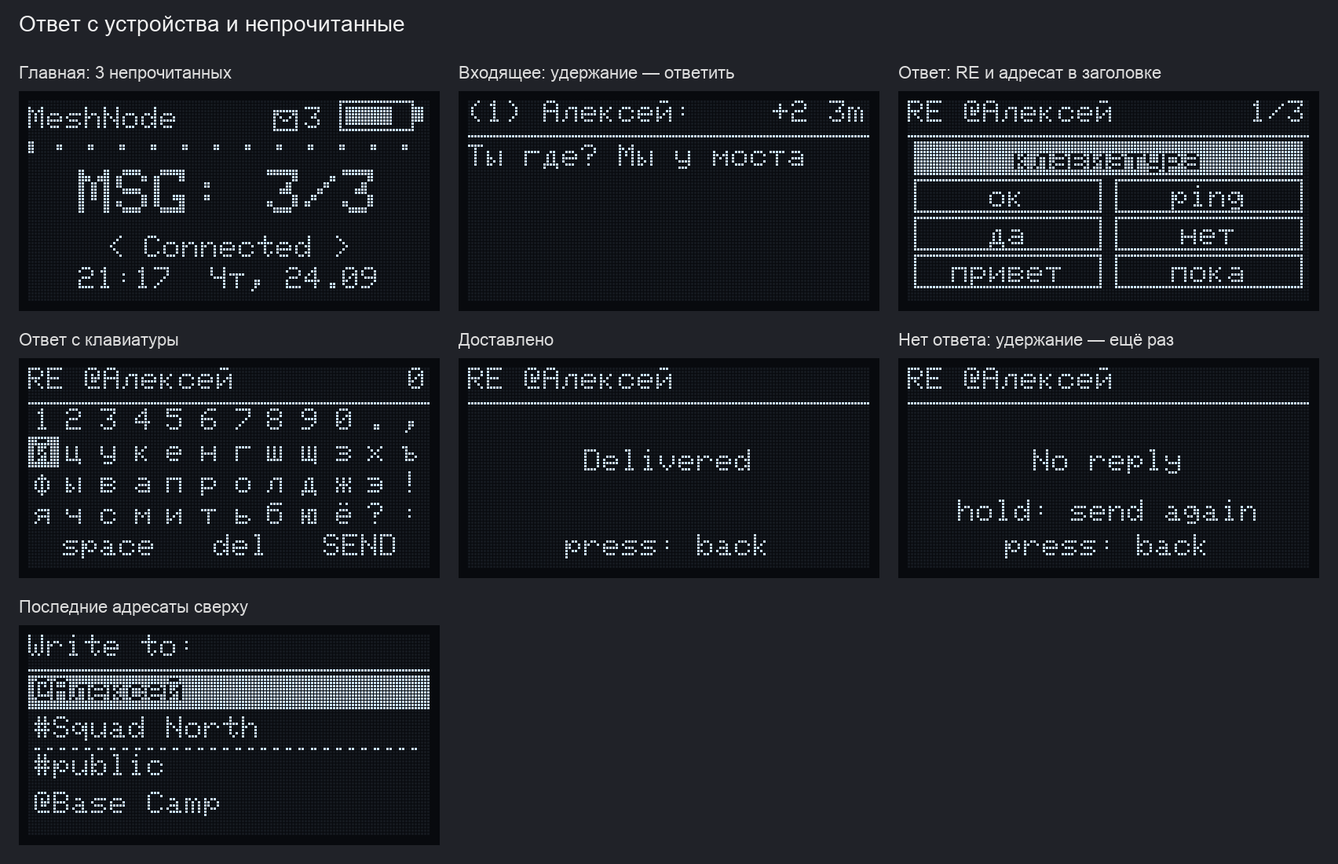
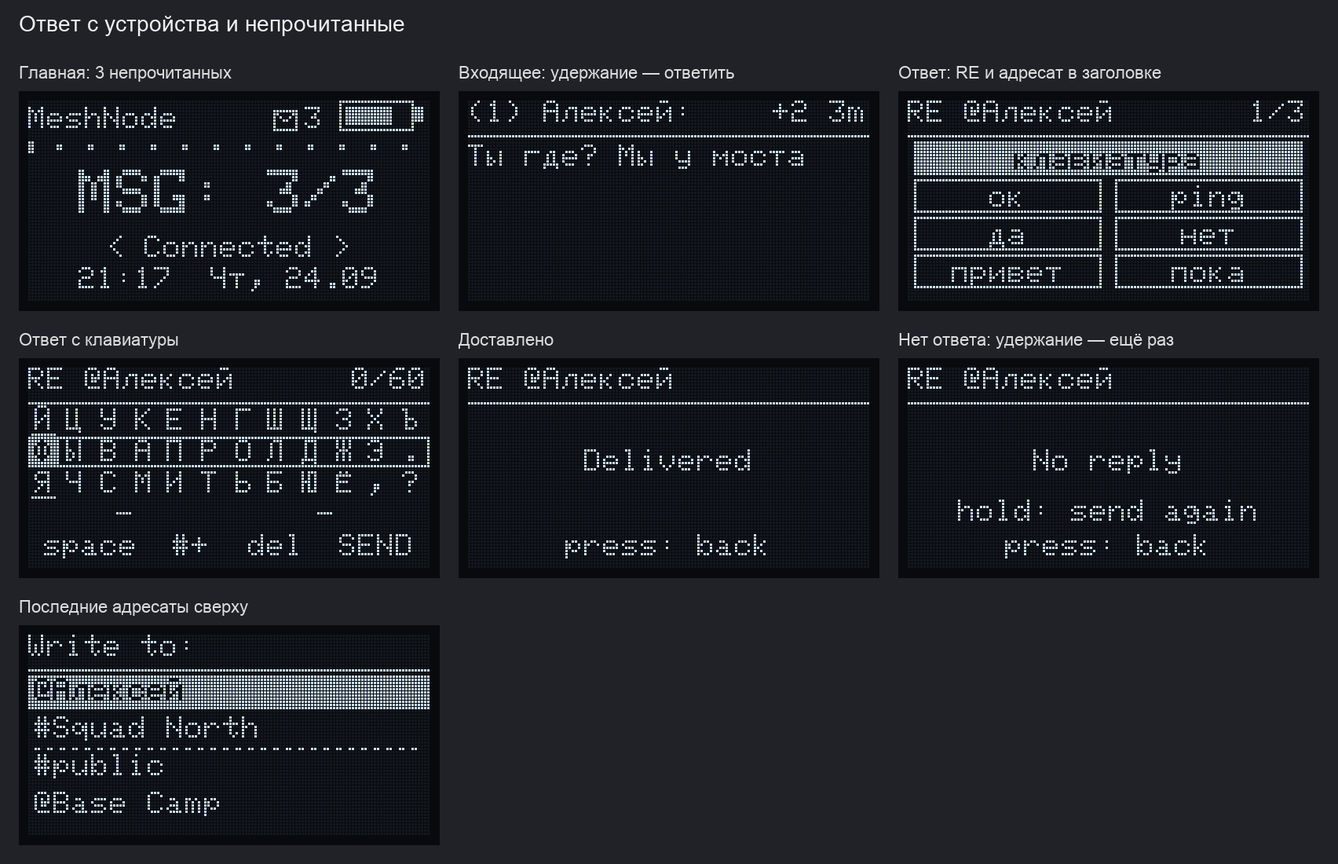
Версия 0.1.9: морзе, новая клавиатура, свои фразы, README.

diff --git a/tools/screen_render/render_compose.py b/tools/screen_render/render_compose.py
@@ -30,14 +30,18 @@ LANG = {
     "en": {"phrases": ["ok", "ping", "yes", "no", "hello", "goodbye",
                        "on my way", "arrived", "waiting", "where?", "thanks", "soon", "call back", "SOS",
                        "weather today", "weather tomorrow", "rate", "moon"],
-           "rows": ["1234567890", "qwertyuiop", "asdfghjkl?", "zxcvbnm,.!"],
-           "actions": [(0, "space"), (4, "del"), (7, "SEND")],
+           "rows": ["qwertyuiop", "asdfghjkl.", "zxcvbnm,?!"],
+           "freq": ["itsup?qkyc", "aeolg.!vfd", "hnrw,xzjbm"],
+           "sym": ["1234567890", "-+=/()@#%&", "!?:;\"'*_~$"],
+           "actions": [(0, "space"), (3, "#+"), (5, "del"), (7, "SEND")], "abc": "abc",
            "keyboard": "keyboard"},
     "ru": {"phrases": ["ок", "ping", "да", "нет", "привет", "пока",
                        "в пути", "на месте", "жду", "где ты?", "спасибо", "скоро", "перезвоню", "SOS",
                        "погода сегодня", "погода завтра", "Курс", "луна"],
-           "rows": ["1234567890.,", "йцукенгшщзхъ", "фывапролджэ!", "ячсмитьбюё?:"],
-           "actions": [(0, "space"), (5, "del"), (8, "SEND")],
+           "rows": ["йцукенгшщзхъ", "фывапролджэ.", "ячсмитьбюё,?"],
+           "freq": ["таилячшфэжзп", "ноеруб.щц,гм", "ксвдьх?ъёюйы"],
+           "sym": ["1234567890.,", "-+=/()@#%&*_", "!?:;\"'~$<>[]"],
+           "actions": [(0, "space"), (4, "#+"), (6, "del"), (9, "SEND")], "abc": "абв",
            "keyboard": "клавиатура"},
 }
 
@@ -142,20 +146,25 @@ def scr_phrases(d, lang="en", target="#Squad North", sel=0, morse=False):
             cell(d, col * half + 2, y, half - 4, p, sel == i + fp, True)
 
 
-def scr_msg_settings(d, edit=False, row=0, scroll=True, morse=True, dash=300):
+def scr_msg_settings(d, edit=False, row=0, scroll=True, morse=True, dash=300, freq=False, caps=True, lang="ru"):
     ro.home_header(d, "TICKER")
     w = d.width()
+    lay = ("частотн." if lang == "ru" else "freq") if freq else ("ЙЦУКЕН" if lang == "ru" else "QWERTY")
     rows = [("Msg scroll", "ON" if scroll else "OFF"), ("Morse input", "ON" if morse else "OFF"),
-            ("Morse dash", "%dms" % dash)]
+            ("Morse dash", "%dms" % dash), ("Keys layout", lay), ("Auto caps", "ON" if caps else "OFF")]
+    top = row - 2 if edit and row >= 3 else 0
     d.setTextSize(1)
-    for i, (l, r) in enumerate(rows):
-        y = 20 + i * 11
+    for i in range(top, top + 3):
+        l, r = rows[i]
+        y = 20 + (i - top) * 11
         d.setColor(WHITE)
         if edit and i == row:
             d.fillRect(0, y - 1, w, 10); d.setColor(BLACK)
         d.setCursor(2, y); d.print(l)
-        d.setCursor(w - 2 - d.getTextWidth(r), y); d.print(r)
+        rr = d.translate(r, 16)
+        d.setCursor(w - 3 - d.getTextWidth(rr), y); d.print(rr)
     d.setColor(WHITE)
+    d.fillRect(w - 1, 19 + 32 * top // 5, 1, 32 * 3 // 5)
     d.drawTextCentered(w // 2, 64 - 11, "hold:change 3x:done" if edit else "settings: " + ro.PRESS_LABEL)
 
 
@@ -221,6 +230,7 @@ MORSE_SCREENS = [
     ("90_msg_settings", "Настройки: удержание — открыть", scr_msg_settings),
     ("91_msg_settings_edit", "Морзе вкл/выкл", lambda d: scr_msg_settings(d, True, 1)),
     ("92_msg_settings_dash", "Порог тире: 200…800 мс", lambda d: scr_msg_settings(d, True, 2)),
+    ("92b_msg_settings_kb", "Раскладка и заглавные", lambda d: scr_msg_settings(d, True, 3)),
     ("93_phrases_morse", "Рядом с клавишами — морзе", lambda d: scr_phrases(d, "ru", "@Алексей", sel=1, morse=True)),
     ("94_morse_idle", "Морзе: подсказки и азбука", lambda d: scr_morse(d, crib=5)),
     ("95_morse_keying", "Нажато .-. — это «р»", lambda d: scr_morse(d, text="пр", code=".-.", tip=1)),
@@ -252,23 +262,60 @@ def scr_neighbors(d, n=7, page=0):
     ro.name_list(d, [(nm, "%+.0f" % snr) for nm, snr in rows])
 
 
-def scr_keys(d, lang="en", target="#Squad North", text="", row=1, col=0, re=False):
+_WH = open(os.path.join(ROOT, "examples", "companion_radio", "ui-new", "WordHints.h"), encoding="utf-8").read()
+WORDS = {l: re.findall(r'"([^"]+)"', _WH.split("WORDS_%s[] = {" % l.upper())[1].split("};")[0])
+         for l in ("ru", "en")}
+
+
+def hints_for(lang, text):
+    """Same as ComposeScreen::updateHints with an empty Sent list."""
+    part = text.split(" ")[-1]
+    if not part:
+        return ["", ""]
+    out = []
+    for w in WORDS[lang]:
+        if len(w) > len(part) and w.lower().replace("ё", "е").startswith(part.lower().replace("ё", "е")) \
+                and w.lower() not in [o.lower() for o in out]:
+            out.append(w)
+        if len(out) == 2:
+            break
+    return (out + ["", ""])[:2]
+
+
+def caps_due(text):
+    if not text:
+        return True
+    if not text.endswith(" "):
+        return False
+    t = text.rstrip(" ")
+    return not t or t[-1] in ".!?"
+
+
+def scr_keys(d, lang="en", target="#Squad North", text="", row=1, col=0, re=False,
+             sym=False, freq=False, legend=False, caps=True):
     L = LANG[lang]
-    rows, actions = L["rows"], L["actions"]
+    rows = L["sym"] if sym else (L["freq"] if freq else L["rows"])
+    actions = [(c, (L["abc"] if sym and lab == "#+" else lab)) for c, lab in L["actions"]]
     kc = len(rows[0])
     w = d.width()
-    count = str(len(text))
-    if not text:
+    per = 2 if lang == "ru" else 1
+    used = len(text.encode("utf-8"))
+    count = "%d/%d" % (len(text), len(text) + (120 - used) // per)
+    if legend:
+        title(d, "1> 2< 3v 4^ 5:выход" if lang == "ru" else "1> 2< 3v 4^ 5:exit")
+    elif not text:
         title(d, ("RE " if re else "to ") + target, count)
     else:
         room = w - d.getTextWidth(count) - 6
         frm = 0
-        while d.getTextWidth(text[frm:] + "_") > room and frm < len(text):
+        while d.getTextWidth(d.translate(text[frm:] + "_", 130)) > room and frm < len(text):
             frm += 1
         d.setTextSize(1); d.setColor(WHITE)
         d.setCursor(w - d.getTextWidth(count) - 1, 0); d.print(count)
-        d.setCursor(0, 0); d.print(text[frm:] + "_")
+        d.setCursor(0, 0); d.print(d.translate(text[frm:] + "_", 130))
         d.drawRect(0, 11, w, 1)
+    up = caps and not sym and caps_due(text)
+    hints = hints_for(lang, text) if not sym else ["", ""]
     for r in range(5):
         y = 13 + r * 10
         if r == 4:
@@ -276,11 +323,24 @@ def scr_keys(d, lang="en", target="#Squad North", text="", row=1, col=0, re=Fals
             for a, (c0, label) in enumerate(actions):
                 c1 = actions[a + 1][0] if a + 1 < len(actions) else kc
                 x0, x1 = c0 * w // kc, c1 * w // kc
-                cell(d, x0, y, x1 - x0 - 1, label, row == r and cur == a)
+                cell(d, x0, y, x1 - x0 - 1, d.translate(label, 16), row == r and cur == a)
+            continue
+        if r == 3:
+            cur = 0 if col < kc // 2 else 1
+            for k in range(2):
+                x0, x1 = k * w // 2, (k + 1) * w // 2
+                cell(d, x0, y, x1 - x0 - 1, d.translate(hints[k] or "-", 40), row == r and cur == k)
             continue
         for c in range(kc):
             x0, x1 = c * w // kc, (c + 1) * w // kc
-            cell(d, x0, y, x1 - x0, rows[r][c], row == r and col == c)
+            ch = rows[r][c]
+            if up:
+                ch = ch.upper()
+            cell(d, x0, y, x1 - x0, d.translate(ch, 8), row == r and col == c)
+            if c == col and r != row and row < 3:
+                d.fillRect(x0 + 1, y + 8, x1 - x0 - 2, 1)
+        if r == row:
+            d.drawRect(0, y - 1, w, 10)
 
 
 def scr_result(d, target="@Alexey", line="Delivered", retry=False):
@@ -359,12 +419,19 @@ LANG_SCREENS = [
     ("43_write_phrase_sel", "Выбрана фраза", lambda d, l: scr_phrases(d, l, sel=5)),
     ("43b_write_phrases_2", "Фразы, экран 2", lambda d, l: scr_phrases(d, l, sel=7)),
     ("43c_write_phrases_3", "Фразы, экран 3", lambda d, l: scr_phrases(d, l, sel=15)),
-    ("44_write_keys", "Клавиатура: пусто", lambda d, l: scr_keys(d, l)),
-    ("45_write_typing", "Набор текста", lambda d, l: scr_keys(
-        d, l, text={"en": "meet at 18", "ru": "у моста в 18"}[l], row=2, col=3)),
-    ("46_write_send", "Кнопка SEND", lambda d, l: scr_keys(
-        d, l, text={"en": "meet at 18 bridge", "ru": "у моста в 18:00"}[l], row=4,
-        col={"en": 7, "ru": 8}[l])),
+    ("44_write_keys", "Открыта: подсказка кнопок", lambda d, l: scr_keys(d, l, legend=True)),
+    ("44b_write_caps", "Пусто: первая буква заглавная", lambda d, l: scr_keys(d, l)),
+    ("45_write_typing", "Набор: подсказки слов", lambda d, l: scr_keys(
+        d, l, text={"en": "Meet at the bri", "ru": "Буду у мо"}[l], row=1, col=3)),
+    ("45b_write_hint", "Удержание на слове — вставить", lambda d, l: scr_keys(
+        d, l, text={"en": "Meet at the bri", "ru": "Буду у мо"}[l], row=3, col=8)),
+    ("46_write_sym", "#+: цифры и знаки", lambda d, l: scr_keys(
+        d, l, text={"en": "Meet at the bridge ", "ru": "Буду у моста в "}[l], row=0, col=1, sym=True)),
+    ("46b_write_send", "Кнопка SEND", lambda d, l: scr_keys(
+        d, l, text={"en": "Meet at the bridge 18:00", "ru": "Буду у моста в 18:00"}[l], row=4,
+        col={"en": 7, "ru": 9}[l])),
+    ("47_write_freq", "Частотная раскладка (опция)", lambda d, l: scr_keys(
+        d, l, text={"en": "Meet at the bri", "ru": "Буду у мо"}[l], row=1, col=1, freq=True)),
 ]
 
 # answering from the device: name, caption, function(d)

diff --git a/README.md b/README.md
@@ -10,6 +10,7 @@
 | Написать и отправить сообщение без телефона | — | ✅ в канал или избранному контакту |
 | Готовые фразы | — | ✅ 18 фраз на трёх экранах, по-русски или по-английски, любую можно заменить командой |
 | Русская клавиатура | — | ✅ при `set lang ru` (по умолчанию), английская при `set lang en` |
+| Подсказки слов, черновики, заглавные, цифры и знаки на клавиатуре | — | ✅ |
 | Ввод азбукой Морзе | — | ✅ русской или латинской по языку, включается рядом с Msg scroll |
 | Отметка «Delivered» для личных сообщений с устройства | — | ✅ и повтор отправки удержанием, если ответа нет |
 | Ответ на входящее с устройства | — | ✅ удержание в окне сообщения, `RE` в заголовке |
@@ -167,16 +168,16 @@
 
 ### Клавиатура
 
-Вся клавиатура на одном экране. Текст — до 120 байт: 120 латинских букв или около 60 русских (русская буква занимает 2 байта).
+Вся клавиатура на одном экране: три ряда букв, ряд из двух подсказок слов и ряд широких клавиш. Текст — до 120 байт: 120 латинских букв или около 60 русских (русская буква занимает 2 байта). Справа в заголовке счётчик `набрано/помещается`, например `9/61`.
 
 ```
-set lang ru                    set lang en
+set lang ru                      set lang en
 
-1 2 3 4 5 6 7 8 9 0 . ,        1 2 3 4 5 6 7 8 9 0
-й ц у к е н г ш щ з х ъ        q w e r t y u i o p
-ф ы в а п р о л д ж э !        a s d f g h j k l ?
-я ч с м и т ь б ю ё ? :        z x c v b n m , . !
-[  space  ][ del ][SEND]       [ space ][ del ][SEND]
+й ц у к е н г ш щ з х ъ          q w e r t y u i o p
+ф ы в а п р о л д ж э .          a s d f g h j k l .
+я ч с м и т ь б ю ё , ?          z x c v b n m , ? !
+[ слово 1 ] [ слово 2 ]          [ слово 1 ] [ слово 2 ]
+[space][#+][ del ][SEND]         [space][#+][del][SEND]
 ```
 
 | Кнопка | На клавиатуре | В списках |
@@ -185,12 +186,30 @@ set lang ru                    set lang en
 | Два нажатия | Влево | Предыдущий пункт |
 | Три нажатия | Вниз (по кругу, столбец сохраняется) | Назад |
 | Четыре нажатия | Вверх | Выйти на главную |
-| Пять нажатий | Выйти без отправки | Выйти на главную |
+| Пять нажатий | Выйти, текст остаётся черновиком | Выйти на главную |
 | Удержание 0,5 с | Ввести клавишу | Выбрать |
 
+Первые 2,5 секунды после открытия в заголовке видна памятка: `1> 2< 3v 4^ 5:выход`. Строка, где стоит курсор, обведена рамкой, а его столбец подчёркнут в остальных рядах.
+
+**Подсказки слов.** Пока набирается слово, в четвёртом ряду появляются два подходящих слова: набрали `мо` — видно `можно` и `мост`. Удержание на слове заменяет набранное начало этим словом и ставит пробел. Сначала предлагаются слова из сообщений, которые вы уже отправили с устройства (страница Sent), потом из встроенного словаря частых слов: около 230 русских и 135 английских. Подходящих слов нет — в ряду прочерки.
+
+**Заглавные буквы.** Первая буква сообщения и первая буква после `.`, `!` или `?` с пробелом становятся заглавными сами. Буквы на клавишах в этот момент тоже показаны заглавными. Если бот в канале ждёт команду строчными, выключите `Auto caps` в настройках или командой `set caps off`.
+
+**Цифры и знаки.** Цифр на основной раскладке нет: клавиша `#+` переключает три верхних ряда на цифры и знаки `- + = / ( ) @ # % & * _ ! ? : ; " ' ~ $ < > [ ]`. На этой клавише тогда написано `абв` (`abc`); она же возвращает буквы. Точка, запятая и вопрос есть и на буквенной раскладке.
+
+**Черновики.** Если выйти из клавиатуры (пять нажатий, назад к адресатам или на главную), набранный текст сохраняется как черновик для этого адресата. При следующем открытии клавиатуры или морзе для того же адресата он вернётся, на экране мелькнёт `Черновик`. Хранятся черновики для четырёх последних адресатов до перезагрузки. После отправки черновик удаляется. Если отправка не удалась, остаётся.
+
+**Частотная раскладка.** Вместо ЙЦУКЕН / QWERTY можно включить раскладку, где частые буквы стоят рядом друг с другом и с пробелом. Это опция `Keys layout` в настройках сообщений или команда `set kb freq` (`set kb std` — обратно). По расчёту на типичном тексте она экономит действия: для русского ≈3,7 вместо ≈4,2 на букву (−11%), для английского ≈3,4 вместо ≈4,1 (−16%). Но к ней нужно привыкнуть, поэтому по умолчанию стоит обычная.
+
+```
+частотная ru               частотная en
+т а и л я ч ш ф э ж з п    i t s u p ? q k y c
+н о е р у б . щ ц , г м    a e o l g . ! v f d
+к с в д ь х ? ъ ё ю й ы    h n r w , x z j b m
+```
+
 <p align="center">
-  <img src="docs/screens/write/45_write_typing_ru.png" alt="Набор текста по-русски" width="400">
-  <img src="docs/screens/write/45_write_typing_en.png" alt="Набор текста по-английски" width="400">
+  <img src="docs/screens/gallery_write_ru.png" alt="Клавиатура: подсказки слов, знаки, заглавные" width="900">
 </p>
 
 Отправленные с устройства сообщения не попадают в историю чата в приложении на телефоне. Их видно на странице [Sent](#sent-что-отправлено-с-устройства).
@@ -207,6 +226,8 @@ set lang ru                    set lang en
 - `Morse dash` — с какой длины нажатие считается тире. Каждое долгое нажатие переключает: 200, 250, 300, 350, 400, 500, 600, 800 мс. По умолчанию 300 мс. Если тире у вас то и дело превращаются в точки, увеличьте значение; если точки становятся тире — уменьшите.
 
 То же самое командами в Console или по кабелю: `set morse on`, `set morse off`, `set morse.dash 350` (от 100 до 1000 мс).
+
+Ещё два пункта на той же странице относятся к клавиатуре: `Keys layout` (`ЙЦУКЕН` / `частотн.`) и `Auto caps` (заглавные буквы). На экране видно три строки настроек из пяти, список прокручивается за курсором, справа полоса прокрутки.
 
 Когда морзе включено, на первом экране фраз вместо одной кнопки `клавиатура` две: `клавиши` и `морзе`.
 

diff --git a/.github/release-notes.md b/.github/release-notes.md
@@ -3,8 +3,11 @@
 ## Что нового в v1.17.1-0.1.9
 
 - **Ввод азбукой Морзе.** Короткое нажатие — точка, длинное — тире. Азбука по языку: русская при `set lang ru`, латинская при `set lang en`. `.-.-.` — отправить, `-...-` — пробел, 7–8 точек — стереть букву, удержание 2 с — выход. На экране видно, какая буква получится сейчас, что даст ещё точка или тире, и бегущая шпаргалка азбуки. Нераспознанная комбинация не вписывается: показывается `..--.- ? нет знака`.
-- **Настройки сообщений на одной странице:** `Msg scroll`, `Morse input` и `Morse dash` (200–800 мс). Долгое нажатие открывает и меняет, три нажатия закрывают. Или командами `set morse on|off`, `set morse.dash 350`.
-- **Клавиатура: новые нажатия.** 1 — вправо, 2 — влево, 3 — вниз, 4 — вверх, 5 — выход без отправки.
+- **Настройки сообщений на одной странице:** `Msg scroll`, `Morse input`, `Morse dash` (200–800 мс), `Keys layout`, `Auto caps`. Долгое нажатие открывает и меняет, три нажатия закрывают. Или командами `set morse on|off`, `set morse.dash 350`.
+- **Клавиатура: новые нажатия.** 1 — вправо, 2 — влево, 3 — вниз, 4 — вверх, 5 — выход (текст остаётся черновиком). Первые секунды в заголовке памятка `1> 2< 3v 4^ 5:выход`, ряд курсора обведён, столбец подчёркнут.
+- **Подсказки слов.** Ряд из двух слов над широкими клавишами: набрали `мо` — `можно`, `мост`. Удержание вставляет слово с пробелом. Сначала слова из ваших отправленных сообщений, потом из словаря.
+- **Заглавные сами** в начале и после `. ! ?` (`Auto caps`, `set caps off`). **Клавиша `#+`** — цифры и знаки. **Черновики** для четырёх последних адресатов. **Счётчик** `набрано/помещается`.
+- **Частотная раскладка** как опция (`Keys layout`, `set kb freq`): частые буквы рядом, ≈11–16% меньше действий.
 - **Третий экран фраз:** `погода сегодня`, `погода завтра`, `Курс`, `луна`. Длинная фраза занимает всю строку.
 - **Свои фразы командами:** `set phrase 15 погода сегодня`, `set phrase 15` — вернуть стандартную, `phrases 1|2|3` — список с номерами.
 
